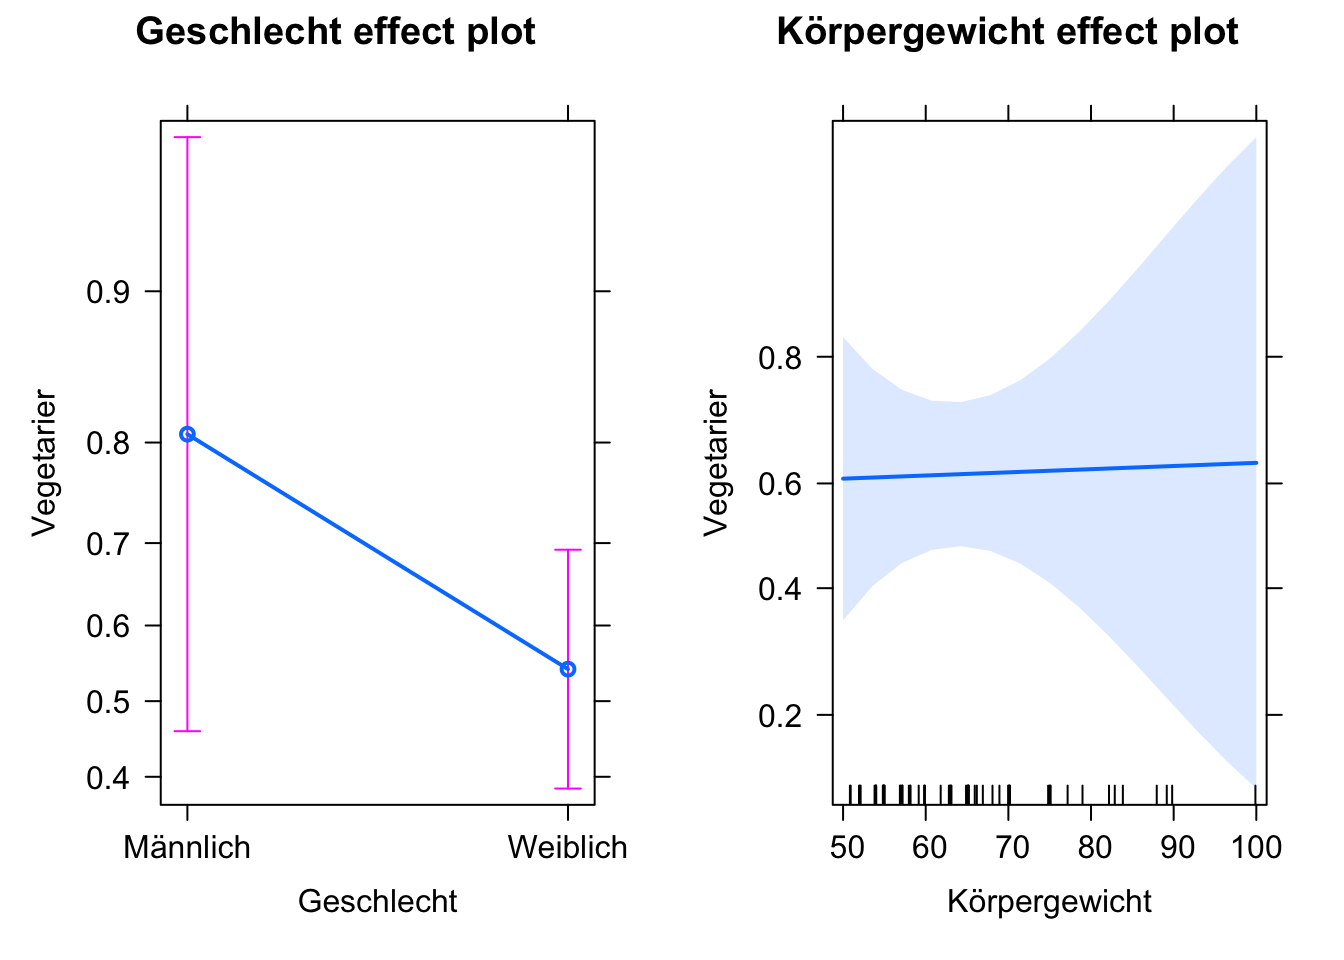
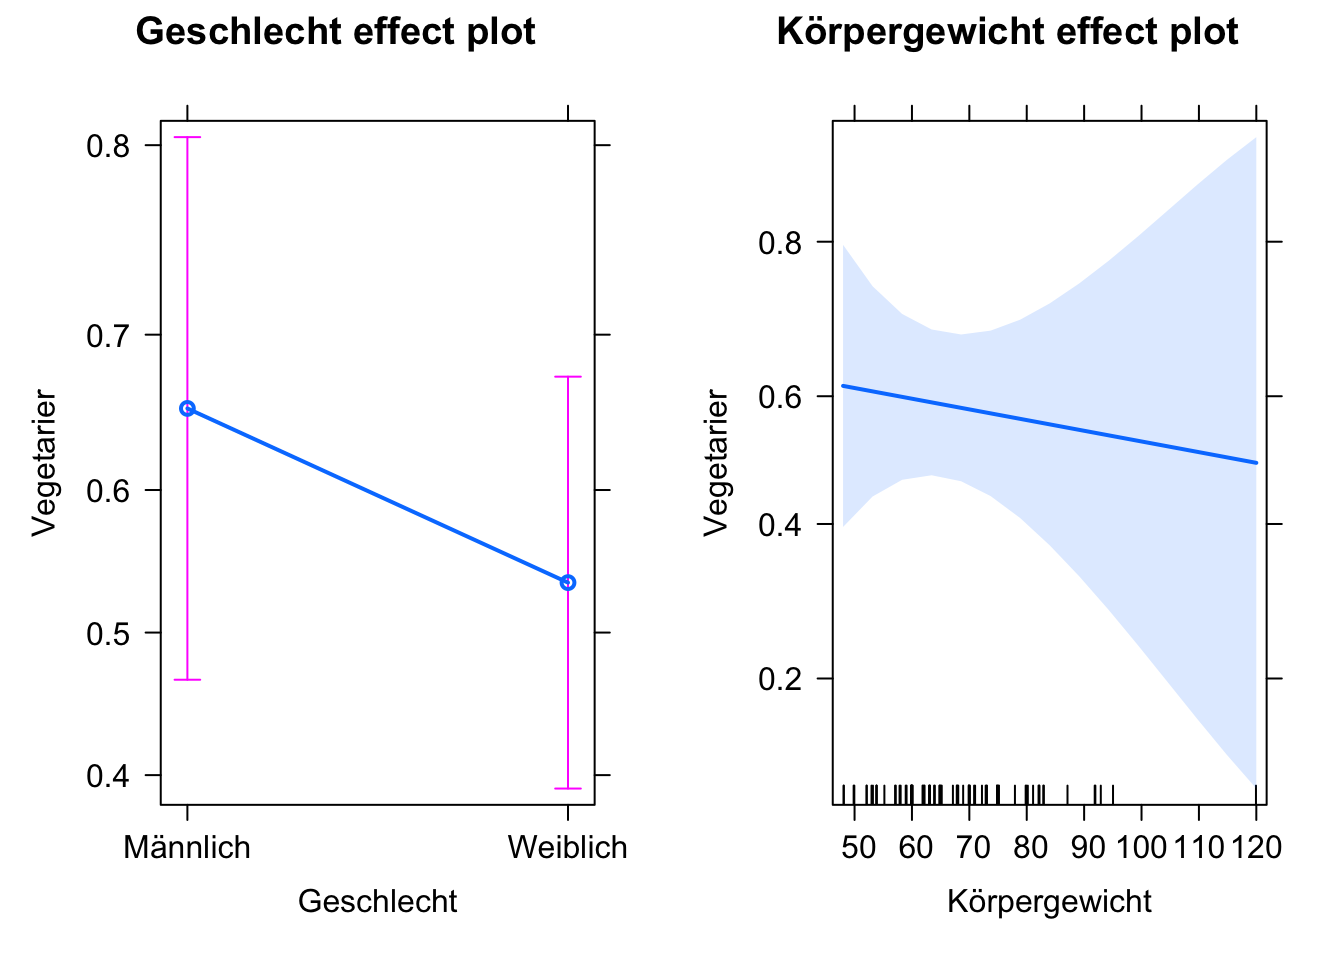
updates

diff --git a/Statistik/RCodeVorlesung/R-Code-Vorlesung.html b/Statistik/RCodeVorlesung/R-Code-Vorlesung.html
@@ -135,6 +135,10 @@ pre > code.sourceCode > span > a:first-child::before { text-decoration: underlin
   <li><a href="#körpergewicht-verkehrsmittel" id="toc-körpergewicht-verkehrsmittel" class="nav-link" data-scroll-target="#körpergewicht-verkehrsmittel">Körpergewicht ~ Verkehrsmittel</a></li>
   </ul></li>
   </ul></li>
+  <li><a href="#woche-6---glm" id="toc-woche-6---glm" class="nav-link" data-scroll-target="#woche-6---glm">Woche 6 - GLM</a>
+  <ul class="collapse">
+  <li><a href="#dienstag-1" id="toc-dienstag-1" class="nav-link" data-scroll-target="#dienstag-1">Dienstag</a></li>
+  </ul></li>
   </ul>
 </nav>
 </div>
@@ -1535,8 +1539,132 @@ Signif. codes:  0 '***' 0.001 '**' 0.01 '*' 0.05 '.' 0.1 ' ' 1</code></pre>
 <pre><code>[1] 620.7161</code></pre>
 </div>
 </div>
-<p># Woche 6 - GLM</p>
 </section>
+</section>
+</section>
+<section id="woche-6---glm" class="level1">
+<h1>Woche 6 - GLM</h1>
+<section id="dienstag-1" class="level2">
+<h2 class="anchored" data-anchor-id="dienstag-1">Dienstag</h2>
+<p>Interessieren uns für die Assoziazion Veg ~ Geschlecht. Erinnerung: deskriptiv über Kreuztabelle + gruppiertes Balkendiagram</p>
+<div class="cell">
+<div class="sourceCode cell-code" id="cb226"><pre class="sourceCode r code-with-copy"><code class="sourceCode r"><span id="cb226-1"><a href="#cb226-1" aria-hidden="true" tabindex="-1"></a>x <span class="ot">=</span> <span class="fu">table</span>(daten<span class="sc">$</span>Vegetarier, daten<span class="sc">$</span>Geschlecht)</span>
+<span id="cb226-2"><a href="#cb226-2" aria-hidden="true" tabindex="-1"></a>x</span></code><button title="Copy to Clipboard" class="code-copy-button"><i class="bi"></i></button></pre></div>
+<div class="cell-output cell-output-stdout">
+<pre><code>      
+       Männlich Weiblich
+  Ja         11       22
+  Nein       20       26</code></pre>
+</div>
+<div class="sourceCode cell-code" id="cb228"><pre class="sourceCode r code-with-copy"><code class="sourceCode r"><span id="cb228-1"><a href="#cb228-1" aria-hidden="true" tabindex="-1"></a><span class="fu">barplot</span>(x, <span class="at">beside =</span> T)</span></code><button title="Copy to Clipboard" class="code-copy-button"><i class="bi"></i></button></pre></div>
+<div class="cell-output-display">
+<p><img src="R-Code-Vorlesung_files/figure-html/unnamed-chunk-54-1.png" class="img-fluid" width="672"></p>
+</div>
+</div>
+<p>Könnten einen Hypothesentest machen</p>
+<div class="cell">
+<div class="sourceCode cell-code" id="cb229"><pre class="sourceCode r code-with-copy"><code class="sourceCode r"><span id="cb229-1"><a href="#cb229-1" aria-hidden="true" tabindex="-1"></a><span class="fu">prop.test</span>(x)</span></code><button title="Copy to Clipboard" class="code-copy-button"><i class="bi"></i></button></pre></div>
+<div class="cell-output cell-output-stdout">
+<pre><code>
+    2-sample test for equality of proportions with continuity correction
+
+data:  x
+X-squared = 0.45853, df = 1, p-value = 0.4983
+alternative hypothesis: two.sided
+95 percent confidence interval:
+ -0.3428554  0.1399568
+sample estimates:
+   prop 1    prop 2 
+0.3333333 0.4347826 </code></pre>
+</div>
+</div>
+<p>Aber Regression ist allgemeiner. Abhängige Variable ist 0/1, deshalb logische Regression:</p>
+<div class="cell">
+<div class="sourceCode cell-code" id="cb231"><pre class="sourceCode r code-with-copy"><code class="sourceCode r"><span id="cb231-1"><a href="#cb231-1" aria-hidden="true" tabindex="-1"></a>fit <span class="ot">&lt;-</span> <span class="fu">glm</span>(Vegetarier <span class="sc">~</span> Geschlecht, </span>
+<span id="cb231-2"><a href="#cb231-2" aria-hidden="true" tabindex="-1"></a>           <span class="at">family =</span> <span class="st">"binomial"</span>,</span>
+<span id="cb231-3"><a href="#cb231-3" aria-hidden="true" tabindex="-1"></a>           <span class="at">data =</span> daten)</span>
+<span id="cb231-4"><a href="#cb231-4" aria-hidden="true" tabindex="-1"></a><span class="fu">summary</span>(fit)</span></code><button title="Copy to Clipboard" class="code-copy-button"><i class="bi"></i></button></pre></div>
+<div class="cell-output cell-output-stdout">
+<pre><code>
+Call:
+glm(formula = Vegetarier ~ Geschlecht, family = "binomial", data = daten)
+
+Deviance Residuals: 
+    Min       1Q   Median       3Q      Max  
+-1.4395  -1.2491   0.9362   1.1073   1.1073  
+
+Coefficients:
+                   Estimate Std. Error z value Pr(&gt;|z|)
+(Intercept)          0.5978     0.3754   1.593    0.111
+GeschlechtWeiblich  -0.4308     0.4742  -0.909    0.364
+
+(Dispersion parameter for binomial family taken to be 1)
+
+    Null deviance: 107.37  on 78  degrees of freedom
+Residual deviance: 106.53  on 77  degrees of freedom
+AIC: 110.53
+
+Number of Fisher Scoring iterations: 4</code></pre>
+</div>
+</div>
+<p>Beispiele Transformation der Regressionstabelle auf Vorhersagen (Response):</p>
+<div class="cell">
+<div class="sourceCode cell-code" id="cb233"><pre class="sourceCode r code-with-copy"><code class="sourceCode r"><span id="cb233-1"><a href="#cb233-1" aria-hidden="true" tabindex="-1"></a><span class="fu">plogis</span>(<span class="fl">1.47</span>) <span class="co"># Männer</span></span></code><button title="Copy to Clipboard" class="code-copy-button"><i class="bi"></i></button></pre></div>
+<div class="cell-output cell-output-stdout">
+<pre><code>[1] 0.8130574</code></pre>
+</div>
+<div class="sourceCode cell-code" id="cb235"><pre class="sourceCode r code-with-copy"><code class="sourceCode r"><span id="cb235-1"><a href="#cb235-1" aria-hidden="true" tabindex="-1"></a><span class="fu">plogis</span>(<span class="fl">1.47-1.17</span>) <span class="co"># Frauen</span></span></code><button title="Copy to Clipboard" class="code-copy-button"><i class="bi"></i></button></pre></div>
+<div class="cell-output cell-output-stdout">
+<pre><code>[1] 0.5744425</code></pre>
+</div>
+</div>
+<p>Visualisierung:</p>
+<div class="cell">
+<div class="sourceCode cell-code" id="cb237"><pre class="sourceCode r code-with-copy"><code class="sourceCode r"><span id="cb237-1"><a href="#cb237-1" aria-hidden="true" tabindex="-1"></a><span class="fu">library</span>(effects)</span>
+<span id="cb237-2"><a href="#cb237-2" aria-hidden="true" tabindex="-1"></a><span class="fu">plot</span>(<span class="fu">allEffects</span>(fit))</span></code><button title="Copy to Clipboard" class="code-copy-button"><i class="bi"></i></button></pre></div>
+<div class="cell-output-display">
+<p><img src="R-Code-Vorlesung_files/figure-html/unnamed-chunk-58-1.png" class="img-fluid" width="672"></p>
+</div>
+</div>
+<p>Multiples GLM</p>
+<div class="cell">
+<div class="sourceCode cell-code" id="cb238"><pre class="sourceCode r code-with-copy"><code class="sourceCode r"><span id="cb238-1"><a href="#cb238-1" aria-hidden="true" tabindex="-1"></a>fit <span class="ot">&lt;-</span> <span class="fu">glm</span>(Vegetarier <span class="sc">~</span> Geschlecht <span class="sc">+</span> Körpergewicht, </span>
+<span id="cb238-2"><a href="#cb238-2" aria-hidden="true" tabindex="-1"></a>           <span class="at">family =</span> <span class="st">"binomial"</span>,</span>
+<span id="cb238-3"><a href="#cb238-3" aria-hidden="true" tabindex="-1"></a>           <span class="at">data =</span> daten)</span>
+<span id="cb238-4"><a href="#cb238-4" aria-hidden="true" tabindex="-1"></a><span class="fu">summary</span>(fit)</span></code><button title="Copy to Clipboard" class="code-copy-button"><i class="bi"></i></button></pre></div>
+<div class="cell-output cell-output-stdout">
+<pre><code>
+Call:
+glm(formula = Vegetarier ~ Geschlecht + Körpergewicht, family = "binomial", 
+    data = daten)
+
+Deviance Residuals: 
+    Min       1Q   Median       3Q      Max  
+-1.5026  -1.2555   0.9216   1.0790   1.2686  
+
+Coefficients:
+                    Estimate Std. Error z value Pr(&gt;|z|)
+(Intercept)         1.097865   1.507875   0.728    0.467
+GeschlechtWeiblich -0.495410   0.511318  -0.969    0.333
+Körpergewicht      -0.006785   0.019784  -0.343    0.732
+
+(Dispersion parameter for binomial family taken to be 1)
+
+    Null deviance: 107.37  on 78  degrees of freedom
+Residual deviance: 106.41  on 76  degrees of freedom
+AIC: 112.41
+
+Number of Fisher Scoring iterations: 4</code></pre>
+</div>
+</div>
+<p>Visualisierung:</p>
+<div class="cell">
+<div class="sourceCode cell-code" id="cb240"><pre class="sourceCode r code-with-copy"><code class="sourceCode r"><span id="cb240-1"><a href="#cb240-1" aria-hidden="true" tabindex="-1"></a><span class="fu">library</span>(effects)</span>
+<span id="cb240-2"><a href="#cb240-2" aria-hidden="true" tabindex="-1"></a><span class="fu">plot</span>(<span class="fu">allEffects</span>(fit))</span></code><button title="Copy to Clipboard" class="code-copy-button"><i class="bi"></i></button></pre></div>
+<div class="cell-output-display">
+<p><img src="R-Code-Vorlesung_files/figure-html/unnamed-chunk-60-1.png" class="img-fluid" width="672"></p>
+</div>
+</div>
 </section>
 </section>
 
